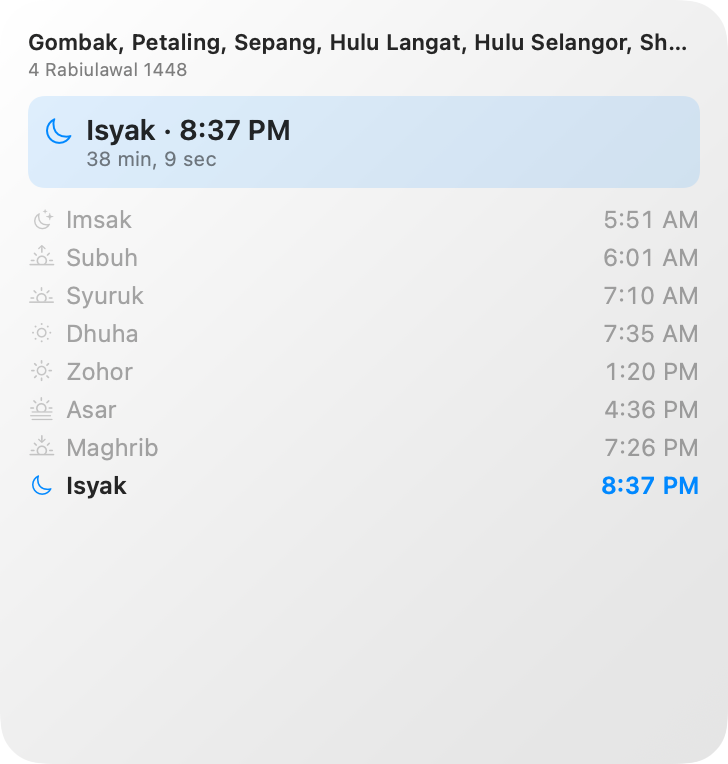
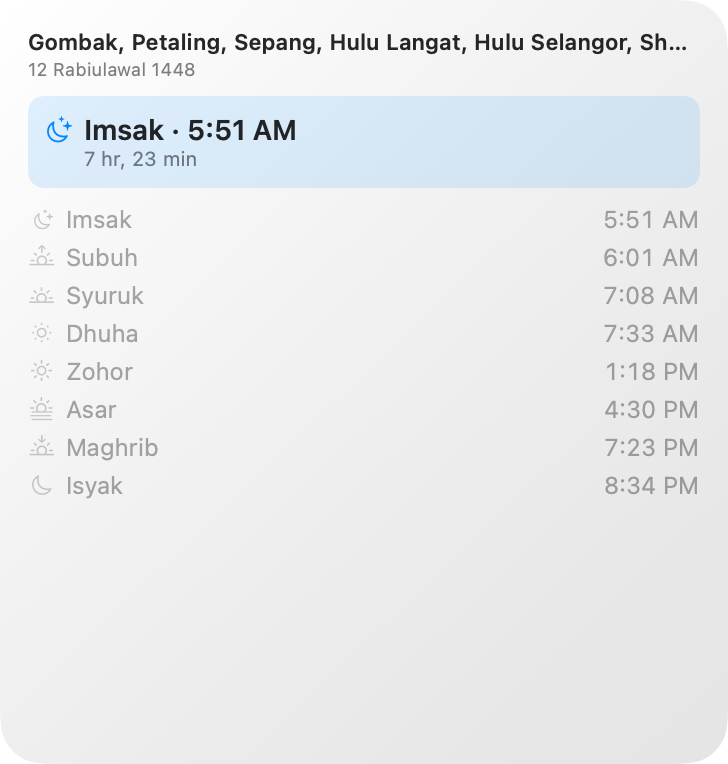
Document the popup alerts in the README
Adds a section showing both popups and explaining the presence rules: nothing
fires at a locked or sleeping Mac, missed alerts reappear within the catch-up
window, and the latest alert wins when several come due at once.

The popup images are generated by `make screenshots` alongside the widget ones,
rendering the real PrayerAlertView so they cannot drift from the code. The
renderer picks Asar and Maghrib explicitly rather than whatever prayer happens
to be next, which would otherwise illustrate the feature with Imsak — a marker
that isn't even notified by default.

Drops the Alerts settings screenshot rather than shipping a stale one: that pane
was reorganised into popup, sound, notification and per-prayer sections, so the
old image no longer matches. The section is described in text until it can be
recaptured.

diff --git a/scripts/render-widgets.swift b/scripts/render-widgets.swift
@@ -1,4 +1,4 @@
-// Renders the widget views to PNGs for the README.
+// Renders the widget views and the prayer popup to PNGs for the README.
 //
 // This draws the real `PrayerWidgetView` with the real `PrayerTimelineProvider`
 // entry — the same code and the same cached prayer times the installed widget
@@ -108,6 +108,64 @@ struct RenderWidgets {
                     to: outputDir.appendingPathComponent("widget-\(spec.name).png")
                 )
             }
+        }
+
+        try await MainActor.run { try renderPopups(entry: entry, outputDir: outputDir) }
+    }
+
+    /// The on-screen alert, in both of its forms.
+    @MainActor
+    static func renderPopups(entry: PrayerEntry, outputDir: URL) throws {
+        let zone = entry.zoneDescription
+
+        // Pick recognisable obligatory prayers rather than whatever happens to be
+        // next — the literal next event can be Imsak, which isn't even notified by
+        // default and makes a confusing illustration.
+        func time(of prayer: Prayer, fallbackHour: Int) -> Date {
+            if let date = entry.day?.time(for: prayer) { return date }
+            var c = SolatCalendar.zoneCalendar.dateComponents([.year, .month, .day], from: Date())
+            c.hour = fallbackHour; c.minute = 0
+            c.timeZone = SolatCalendar.zoneTimeZone
+            return SolatCalendar.zoneCalendar.date(from: c) ?? Date()
+        }
+
+        let asr = time(of: .asr, fallbackHour: 16)
+        let maghrib = time(of: .maghrib, fallbackHour: 19)
+
+        let cases: [(name: String, alert: PrayerAlert)] = [
+            ("popup-before", PrayerAlert(prayer: .asr,
+                                         prayerDate: asr,
+                                         fireDate: asr.addingTimeInterval(-900),
+                                         kind: .beforePrayer,
+                                         minutesBefore: 15)),
+            ("popup-entered", PrayerAlert(prayer: .maghrib,
+                                          prayerDate: maghrib,
+                                          fireDate: maghrib,
+                                          kind: .atPrayerTime,
+                                          minutesBefore: 0)),
+        ]
+
+        for item in cases {
+            // autoDismissAfter 0 so the countdown line, which needs a live timer,
+            // doesn't render as a stale "closes in 0s".
+            let view = PrayerAlertView(alert: item.alert,
+                                       zoneDescription: zone,
+                                       use24Hour: false,
+                                       autoDismissAfter: 0) {}
+            let renderer = ImageRenderer(content:
+                view.frame(width: 380, height: 190)
+                    .background(Color(nsColor: .windowBackgroundColor))
+            )
+            renderer.proposedSize = ProposedViewSize(width: 380, height: 190)
+            renderer.scale = 2
+            guard let image = renderer.nsImage,
+                  let tiff = image.tiffRepresentation,
+                  let rep = NSBitmapImageRep(data: tiff),
+                  let png = rep.representation(using: .png, properties: [:])
+            else { continue }
+            let url = outputDir.appendingPathComponent("\(item.name).png")
+            try png.write(to: url)
+            FileHandle.standardOutput.write("✓ \(item.name).png\n".data(using: .utf8)!)
         }
     }
 }

diff --git a/README.md b/README.md
@@ -44,6 +44,20 @@ The menu bar itself can show the prayer name and time, a countdown, or just the 
 </tr>
 </table>
 
+### Alerts you'll actually notice
+
+Two moments, two popups: a heads-up before the prayer, and the prayer entering. Each stays put until dismissed (or until a timer you set closes it), floats above other apps including full-screen ones — and never steals focus from what you're typing.
+
+<p>
+<img src="docs/screenshots/popup-before.png" width="330" alt="Popup: Asar in 15 minutes">
+&nbsp;
+<img src="docs/screenshots/popup-entered.png" width="330" alt="Popup: Maghrib has entered">
+</p>
+
+**They only appear when you're there.** While the Mac is asleep, locked, or showing a screen saver, alerts are held back rather than fired at a screen you can't see — and, importantly, they aren't marked as delivered either. When you unlock, anything missed inside the catch-up window (30 minutes by default, adjustable from 0 to 180) is shown; past that it's retired rather than announced hours late.
+
+If several alerts come due at once after a long sleep, you get the latest one — announcing "Subuh in 15 minutes" when Subuh entered twenty minutes ago would just be wrong.
+
 ### Widgets
 
 Small, medium and large — for the desktop and Notification Center.
@@ -58,9 +72,11 @@ Small, medium and large — for the desktop and Notification Center.
 
 ## What it does
 
+- **A popup you can't miss** — a panel that stays on screen until you dismiss it, with a sound of your choosing. Notification banners hide themselves after a few seconds; this doesn't.
 - **Menu bar countdown** — the next prayer and when it enters, always in view. Five display styles.
-- **Notification when the time enters** — mySolat has no adzan audio, so it uses a native macOS notification.
+- **Notifications too** — native macOS notifications fire alongside the popup, so alerts still reach you when the app isn't frontmost.
 - **A heads-up before each prayer** — anywhere from 1 to 120 minutes, so you have time for wudhu or to head to the masjid.
+- **Quiet when you're away** — nothing fires at a locked, sleeping or screen-savered Mac. Miss Subuh because the lid was shut? It shows when you come back, if you're within the catch-up window.
 - **Works offline** — at least 30 days of prayer times are stored locally (usually ~45). Fly, commute, lose your Wi-Fi; the times are still there.
 - **All 60 JAKIM zones** — pick your district, or let mySolat detect it from your location.
 - **Updates itself** — checks GitHub Releases, verifies the download, installs in place, restarts.
@@ -95,15 +111,17 @@ mySolat downloads about 45 days of times straight away, and the footer tells you
 </tr>
 <tr>
 <td valign="top">
-<img src="docs/screenshots/settings-alerts.png" alt="Alert settings with pre-alert minutes and per-prayer toggles">
+<img src="docs/screenshots/popup-entered.png" alt="The prayer-time popup">
 </td>
 <td valign="top">
 
 ### Alerts
 
-Two independent alerts: one **when the prayer time enters**, and one a configurable number of **minutes before** it, so you can prepare.
+Two moments — **when the prayer time enters**, and a configurable number of **minutes before** it — each available as an on-screen popup, a notification, or both.
 
-Toggle each prayer individually. The five obligatory prayers are on by default; Imsak, Syuruk and Dhuha are off.
+Pick the popup sound from the macOS system sounds, set how long it stays up (0 keeps it until you dismiss it), and choose how late a missed alert may still appear after you unlock.
+
+Toggle each prayer individually. The five obligatory prayers are on by default; Imsak, Syuruk and Dhuha are off. Two **Preview** buttons show exactly what each popup will look and sound like.
 
 </td>
 </tr>
@@ -156,6 +174,8 @@ Right-click the desktop → **Edit Widgets**, search **mySolat**, then drag the 
 | **Data source** | [waktusolat.app](https://waktusolat.app), which serves JAKIM times. `GET /v2/solat/{zone}` returns a calendar month of UNIX timestamps. |
 | **30-day guarantee** | The API is month-granular, so mySolat fetches enough whole months to cover today + 35 days — two normally, three near a month boundary. Cached as JSON and reused until coverage drops below 30 days. |
 | **Timezone** | Days are bucketed in `Asia/Kuala_Lumpur`, never the system timezone. A Mac set to another region still shows the correct Malaysian day, and says so in the popover. |
+| **Popup delivery** | Popups are raised by the app itself, so they aren't subject to the notification limit. They're `NSPanel`s with `.nonactivatingPanel`, which is what lets them float above other apps — full-screen ones included — and follow you across Spaces without stealing keyboard focus. |
+| **Presence detection** | Lock state is queried via `CGSessionCopyCurrentDictionary` rather than tracked purely from notifications, which don't queue while an app is suspended. Display sleep comes from both the `NSWorkspace` notification and a live `CGDisplayIsAsleep` query, because the notification can arrive before the query flips. |
 | **Notification limit** | macOS allows 64 *pending* notifications per app. With 5 prayers × 2 alert kinds that's 10 a day, so mySolat schedules a rolling window (~58 requests) and re-arms it hourly, on wake, and whenever settings change. The cached prayer data is unaffected. |
 | **App ↔ widget** | A macOS widget extension is sandboxed, so the two share an App Group container. If that's unavailable the widget falls back to fetching its own month, so it never renders an empty box. |
 | **Auto-update** | Reads the GitHub Releases API, downloads the universal `.zip`, verifies SHA-256 against the release's `checksums.txt` (and an Ed25519 signature when configured), checks the new bundle's identifier and version, then hands the swap to a script that waits for the app to exit before replacing it and relaunching. |
@@ -208,7 +228,7 @@ docs/screenshots/  the images in this README
 
 The shared sources are compiled into both the app and the widget rather than linked as a library, which keeps the build to two plain `swiftc` invocations per architecture.
 
-The widget images above are generated by `make screenshots`, which renders the real widget views against the real cached times — so they can't drift from the code.
+The widget and popup images above are generated by `make screenshots`, which renders the real views against the real cached times — so they can't drift from the code.
 
 ## Cutting a release
 
